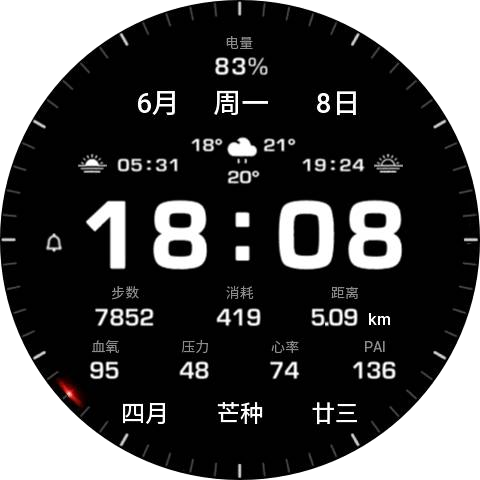
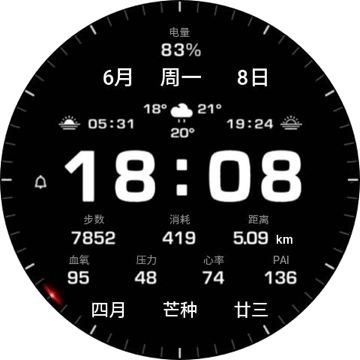
chinese

diff --git a/watchface/index.js b/watchface/index.js
@@ -11,8 +11,6 @@
 
         var __$$app$$__ = __$$hmAppManager$$__.currentApp;
         var __$$module$$__ = __$$app$$__.current;
-        //drink is a name,can modify
-        var h = new DeviceRuntimeCore.WidgetFactory(new DeviceRuntimeCore.HmDomApi(__$$app$$__, __$$module$$__), 'drink');
 
         'use strict';
 
@@ -32,9 +30,6 @@
         let normal_temperature_current_text_img = ''
         let normal_weather_image_progress_img_level = ''
         let normal_altimeter_text_text_img = ''
-        let normal_humidity_text_text_img = ''
-        let normal_wind_text_text_img = ''
-        let normal_uvi_text_text_img = ''
         let normal_stand_current_text_img = ''
         let normal_stress_text_text_img = ''
         let normal_spo2_text_text_img = ''
@@ -52,8 +47,6 @@
         let normal_digital_clock_second_separator_img = ''
         let normal_analog_clock_time_pointer_second = ''
         let normal_alarm_jumpable_img_click = ''
-        let normal_sunrise_jumpable_img_click = ''
-        let normal_altimeter_jumpable_img_click = ''
         let normal_temperature_jumpable_img_click = ''
         let normal_stress_jumpable_img_click = ''
         let normal_pai_jumpable_img_click = ''
@@ -78,9 +71,6 @@
         let idle_temperature_current_text_img = ''
         let idle_weather_image_progress_img_level = ''
         let idle_altimeter_text_text_img = ''
-        let idle_humidity_text_text_img = ''
-        let idle_wind_text_text_img = ''
-        let idle_uvi_text_text_img = ''
         let idle_stand_current_text_img = ''
         let idle_stress_text_text_img = ''
         let idle_spo2_text_text_img = ''
@@ -100,9 +90,6 @@
 
 
         //dynamic modify end
-
-        //not required
-        const logger = DeviceRuntimeCore.HmLogger.getLogger("yeguang");
 
         __$$module$$__.module = DeviceRuntimeCore.WatchFace({
 